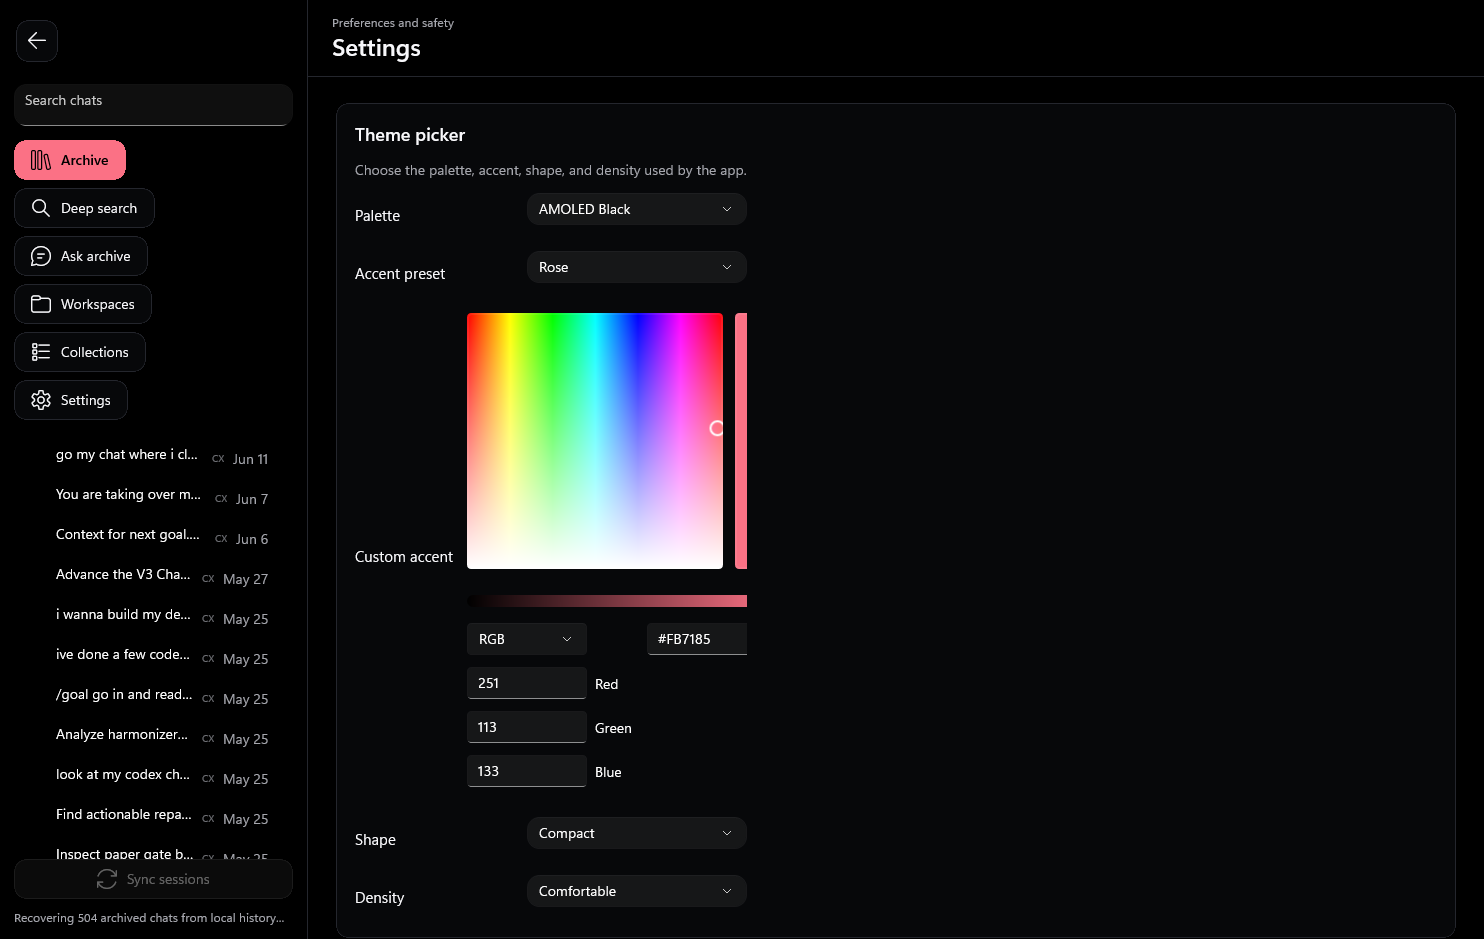
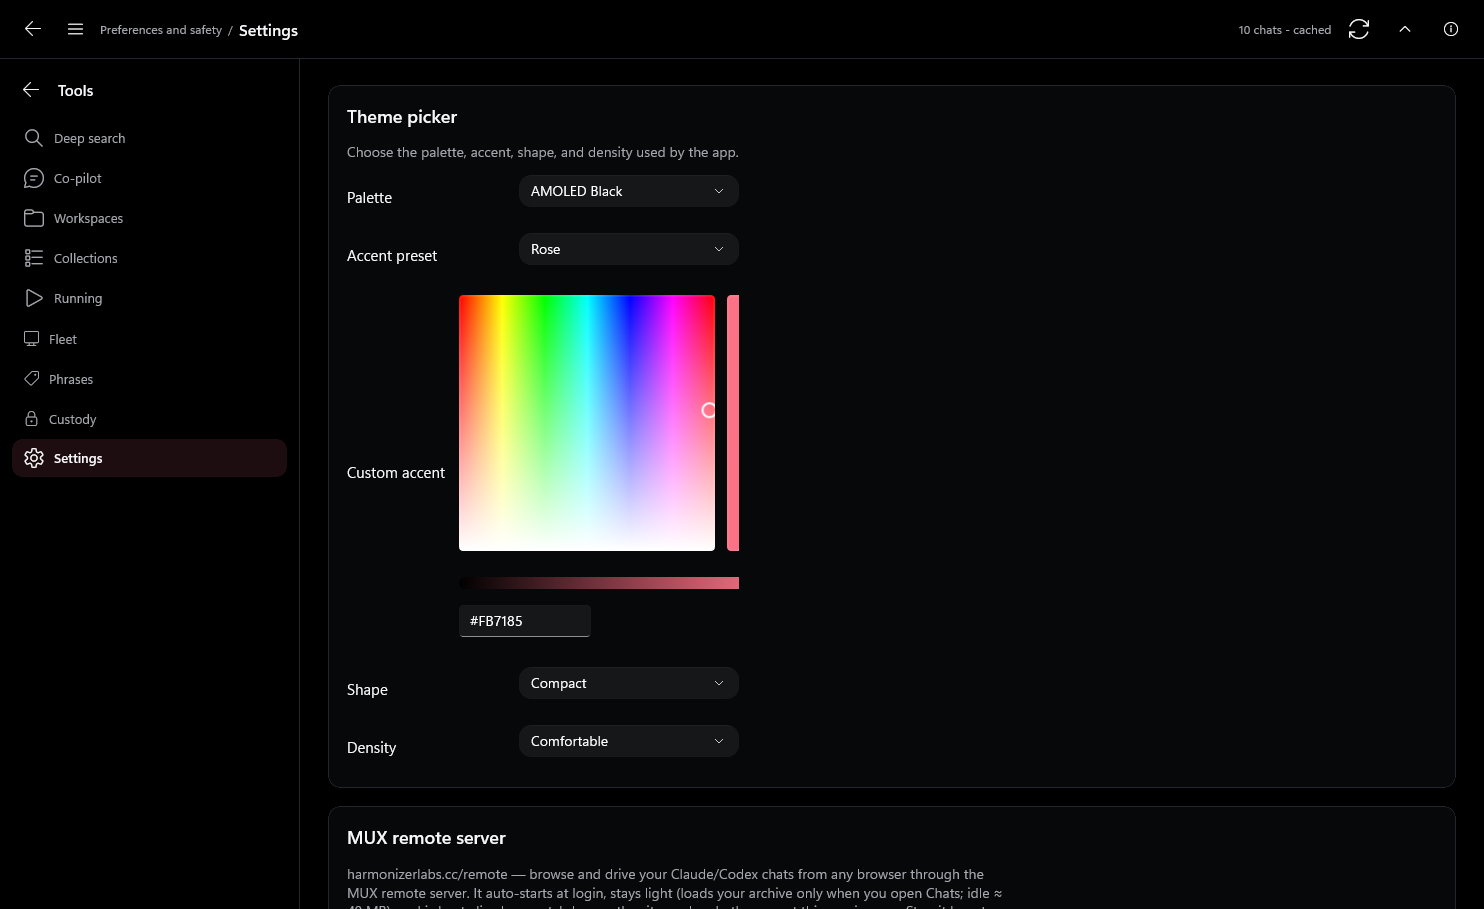
Rebuild the release media set

diff --git a/README.md b/README.md
@@ -20,6 +20,24 @@ MUX puts both agent-session stores into one searchable archive. It reopens any c
 
 I built the archive engine, the WinUI 3 client, the co-pilot tool loop, the ConPTY session host, and the relay. The hard part is the live file: the session you most want to resume is often still being written, in one of two formats, with subagent transcripts mixed in. The parser streams it, keys each chat on its resumable id, and an incremental cache keeps a re-scan off files that did not change.
 
+## Inside the app
+
+The desktop app reads both stores, groups chats by project, and reopens any chat in its own terminal. These screens use a sanitized demo archive: ten sessions across gateway, MUX, Choralus, VDF, and Harmonizer, with project paths under `C:\Projects`.
+
+<p align="center">
+  <img src="docs/media/app-archive.png" width="780" alt="Archive search across Codex and Claude sessions">
+</p>
+
+<p align="center">
+  <img src="docs/media/app-reader.png" width="780" alt="A sanitized gateway relay session in the MUX reader">
+</p>
+
+<p align="center">
+  <img src="docs/media/app-settings.png" width="780" alt="MUX settings: theme, accent, shape, density, and the remote server">
+</p>
+
+Settings covers the theme, accent, shape, density, and the remote server.
+
 ## How the archive works
 
 The app scans `~/.codex/sessions` and `~/.claude/projects` on launch and routes each file by format. Claude chats key on the transcript filename, which is also the id `claude --resume` needs, and sidechain transcripts are skipped. Pins, projects, and renames live in an app-owned store, so a re-sync never rewrites a source `.jsonl` file.
@@ -46,9 +64,13 @@ A viewport change while you hold it reads a new grid instead of stretching the o
 
 Agent TUIs repaint in place with absolute cursor addressing, so the byte stream has no scrollback. The threads view builds a conversation client-side from the live text: up to 400 messages or 400,000 chars per session, de-duplicated across updates and kept over reconnects. It has its own composer, so a phone reply never needs the grid or the key bar.
 
+![The relay on a phone: sessions, threads, take the grid, hand back](docs/media/relay-demo.gif)
+
+*A phone attaches to a gateway session, opens the conversation view, takes the grid, and hands it back. Captured against the relay test rig.*
+
 | Sessions on the phone | The phone takes the grid |
 | --- | --- |
-| <img src="docs/media/relay-sessions.png" width="250" alt="Five PC tabs listed in the relay session list"> | <img src="docs/media/relay-grid-take.png" width="250" alt="The size chip reads this device after the phone takes the grid"> |
+| <img src="docs/media/relay-sessions.png" width="250" alt="Five gateway sessions listed in the relay with the PC chip"> | <img src="docs/media/relay-grid-take.png" width="250" alt="The size chip reads this device after the phone takes the grid"> |
 | **Threads view** | **Handing the grid back** |
 | <img src="docs/media/relay-threads.png" width="250" alt="A readable grouped conversation in the relay threads view"> | <img src="docs/media/relay-grid-handback.png" width="250" alt="The status bar reads giving the grid back before the PC pane takes it again"> |
 

diff --git a/app/README.md b/app/README.md
@@ -9,17 +9,14 @@ transcript files.
 
 ![MUX — a tour of the app](docs/media/hero.gif)
 
-*Real app screens: browse chats grouped by project, read a Claude chat with the noise stripped,
-inspect the raw event timeline, organize into projects, and open the theme picker.*
+*Screens use a sanitized demo archive: browse and search chats from both agents, read a session
+with the noise stripped, and tune the app in Settings.*
 
-| Chats grouped by project (Codex + Claude badges) | A project an agent filed itself into |
+| Archive search across both agents | A sanitized gateway session |
 |---|---|
-| ![Chats grouped by project](docs/media/workspaces.png) | ![Agent-created project](docs/media/projects.png) |
+| ![Archive search](docs/media/archive.png) | ![Reader](docs/media/reader.png) |
 
-![The co-pilot finding and organizing chats](docs/media/copilot.png)
-
-*The DeepSeek co-pilot answering "find chats about VENPOD" — it called `search_chats` over the
-real archive and grouped the results itself.*
+![Settings: theme, accent, shape, density, and the remote server](docs/media/settings.png)
 
 ## Why it's hard
 
@@ -101,7 +98,9 @@ On first launch the app indexes `~/.codex/sessions` and `~/.claude/projects`. Ad
   never leave your machine; the co-pilot stays read-only over the wire and state changes are explicit
   taps.
 
-![The remote web UI on a phone — chat list and co-pilot](docs/media/remote-chats.png)
+![The relay threads view on a phone](../docs/media/relay-threads.png)
+
+*The relay on a phone: the same PC session, rendered as a readable conversation.*
 
 ## Architecture
 
